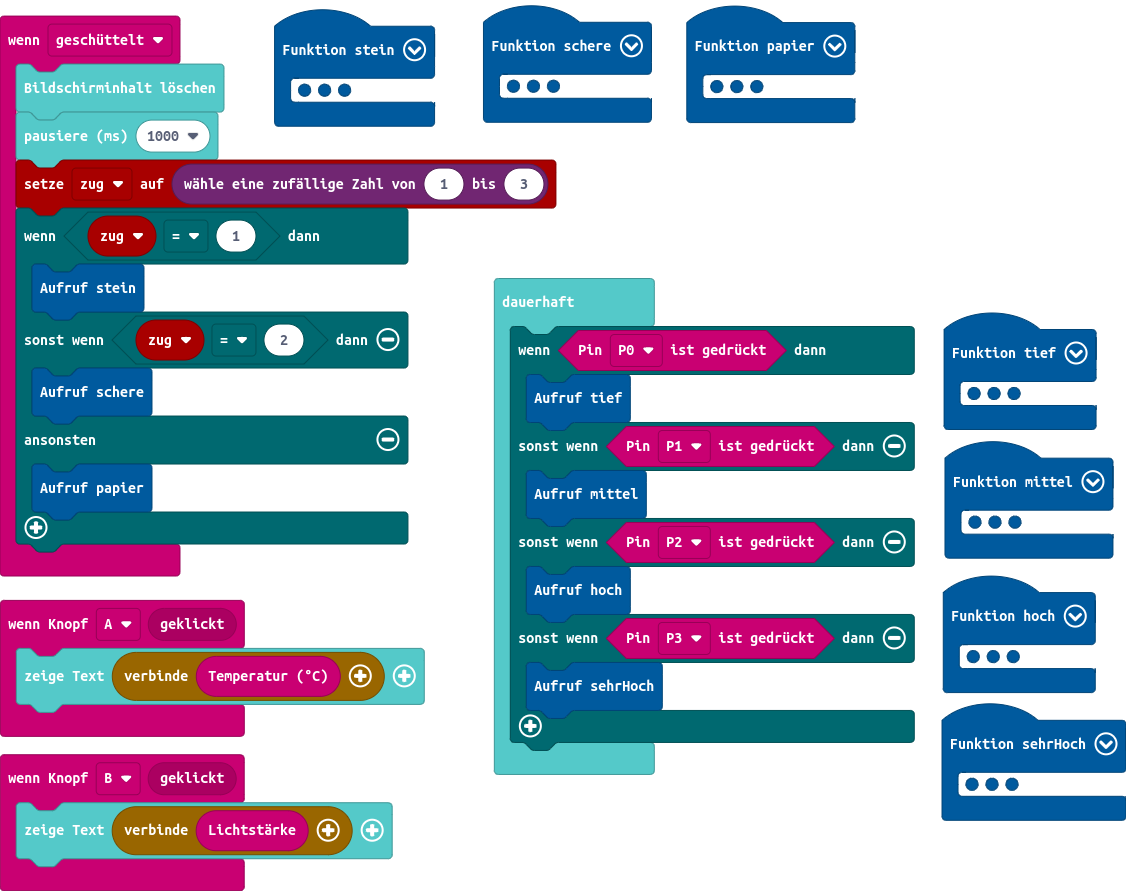
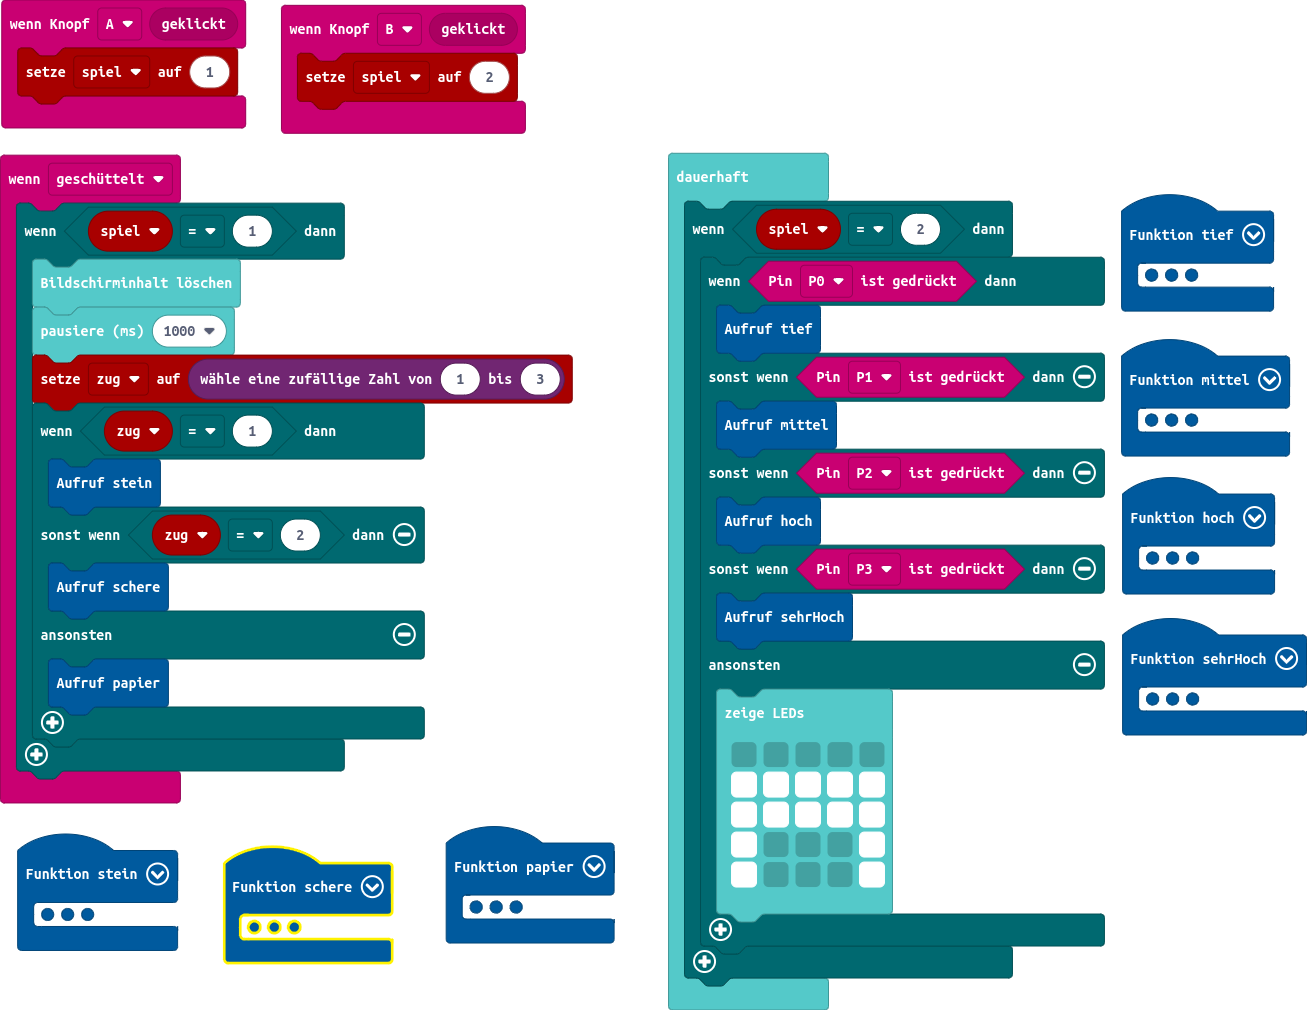
Aktualisiere pxt.json, main.blocks, main.ts

diff --git a/main.ts b/main.ts
@@ -1,3 +1,4 @@
+let spiel = 0
 let zug2 = 0
 function sehrHoch () {
     basic.showLeds(`
@@ -8,16 +9,9 @@ function sehrHoch () {
         # . . . #
         `)
     music.playTone(988, music.beat(BeatFraction.Sixteenth))
-    basic.showLeds(`
-        . . . . .
-        # # # # #
-        # # # # #
-        # . . . #
-        # . . . #
-        `)
 }
 input.onButtonEvent(Button.A, input.buttonEventClick(), function () {
-    basic.showString("" + input.temperature())
+    spiel = 1
 })
 function papier2 () {
     basic.showLeds(`
@@ -43,18 +37,20 @@ function papier2 () {
         `)
 }
 input.onButtonEvent(Button.B, input.buttonEventClick(), function () {
-    basic.showString("" + input.lightLevel())
+    spiel = 2
 })
 input.onGesture(Gesture.Shake, function () {
-    basic.clearScreen()
-    basic.pause(1000)
-    zug2 = randint(1, 3)
-    if (zug2 == 1) {
-        stein2()
-    } else if (zug2 == 2) {
-        schere2()
-    } else {
-        papier2()
+    if (spiel == 1) {
+        basic.clearScreen()
+        basic.pause(1000)
+        zug2 = randint(1, 3)
+        if (zug2 == 1) {
+            stein2()
+        } else if (zug2 == 2) {
+            schere2()
+        } else {
+            papier2()
+        }
     }
 })
 function tief () {
@@ -66,13 +62,6 @@ function tief () {
         # . . . #
         `)
     music.playTone(131, music.beat(BeatFraction.Sixteenth))
-    basic.showLeds(`
-        . . . . .
-        # # # # #
-        # # # # #
-        # . . . #
-        # . . . #
-        `)
 }
 function hoch () {
     basic.showLeds(`
@@ -83,13 +72,6 @@ function hoch () {
         # . . . #
         `)
     music.playTone(523, music.beat(BeatFraction.Sixteenth))
-    basic.showLeds(`
-        . . . . .
-        # # # # #
-        # # # # #
-        # . . . #
-        # . . . #
-        `)
 }
 function mittel () {
     basic.showLeds(`
@@ -100,13 +82,6 @@ function mittel () {
         # . . . #
         `)
     music.playTone(262, music.beat(BeatFraction.Sixteenth))
-    basic.showLeds(`
-        . . . . .
-        # # # # #
-        # # # # #
-        # . . . #
-        # . . . #
-        `)
 }
 function stein2 () {
     basic.showLeds(`
@@ -155,13 +130,23 @@ function schere2 () {
         `)
 }
 basic.forever(function () {
-    if (input.pinIsPressed(TouchPin.P0)) {
-        tief()
-    } else if (input.pinIsPressed(TouchPin.P1)) {
-        mittel()
-    } else if (input.pinIsPressed(TouchPin.P2)) {
-        hoch()
-    } else if (input.pinIsPressed(TouchPin.P3)) {
-        sehrHoch()
+    if (spiel == 2) {
+        if (input.pinIsPressed(TouchPin.P0)) {
+            tief()
+        } else if (input.pinIsPressed(TouchPin.P1)) {
+            mittel()
+        } else if (input.pinIsPressed(TouchPin.P2)) {
+            hoch()
+        } else if (input.pinIsPressed(TouchPin.P3)) {
+            sehrHoch()
+        } else {
+            basic.showLeds(`
+                . . . . .
+                # # # # #
+                # # # # #
+                # . . . #
+                # . . . #
+                `)
+        }
     }
 })
